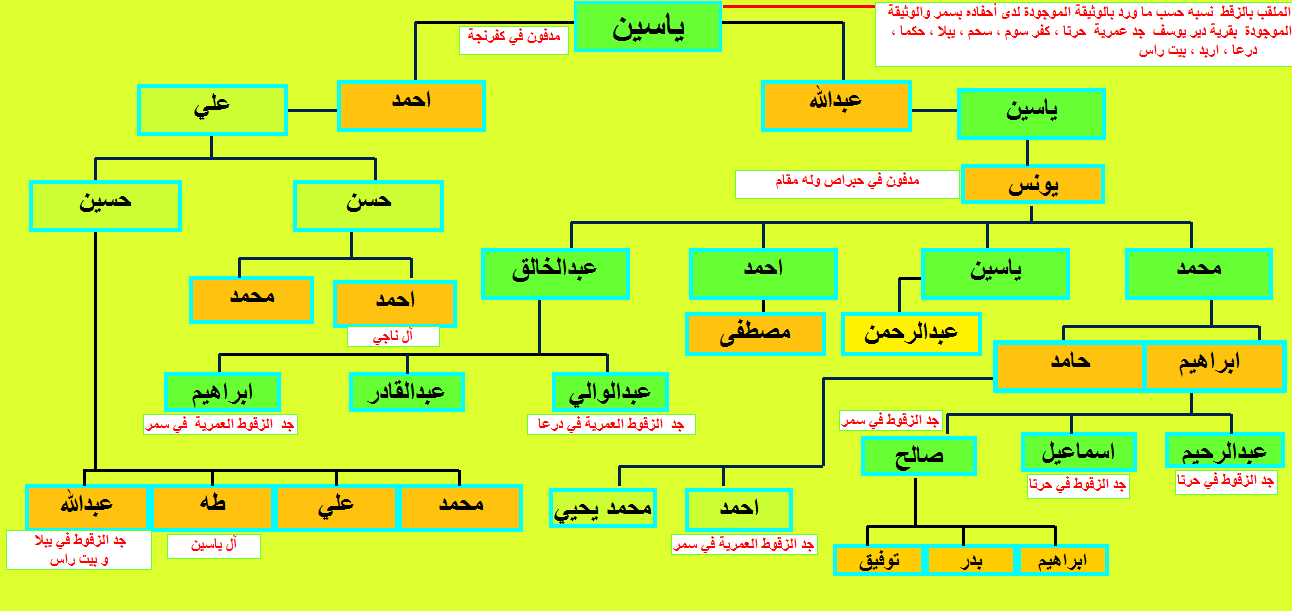
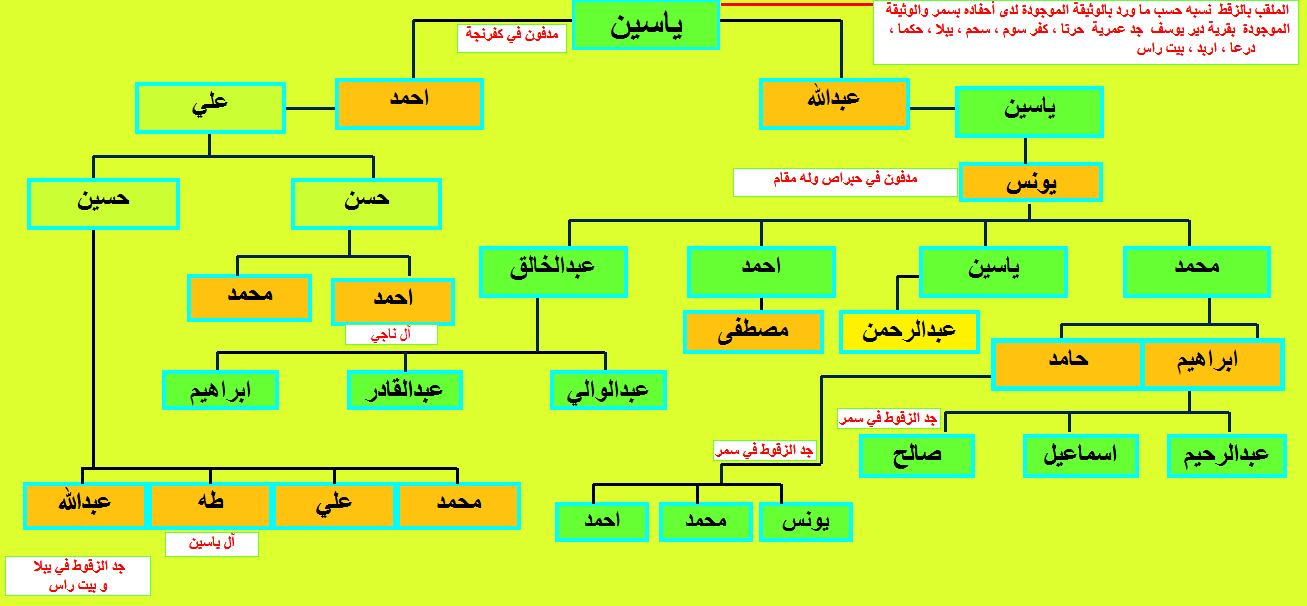
update

diff --git a/Yaseen-Zugut.html b/Yaseen-Zugut.html
@@ -4,17 +4,22 @@
 <head>
 <meta content="text/html; charset=utf-8" http-equiv="Content-Type" />
 <title>النسب العمري</title>
+<style type="text/css">
+.auto-style2 {
+	color: #FF0000;
+}
+</style>
 <script type="text/javascript">
 <!--
+function FP_preloadImgs() {//v1.0
+ var d=document,a=arguments; if(!d.FP_imgs) d.FP_imgs=new Array();
+ for(var i=0; i<a.length; i++) { d.FP_imgs[i]=new Image; d.FP_imgs[i].src=a[i]; }
+}
+
 function FP_swapImg() {//v1.0
  var doc=document,args=arguments,elm,n; doc.$imgSwaps=new Array(); for(n=2; n<args.length;
  n+=2) { elm=FP_getObjectByID(args[n]); if(elm) { doc.$imgSwaps[doc.$imgSwaps.length]=elm;
  elm.$src=elm.src; elm.src=args[n+1]; } }
-}
-
-function FP_preloadImgs() {//v1.0
- var d=document,a=arguments; if(!d.FP_imgs) d.FP_imgs=new Array();
- for(var i=0; i<a.length; i++) { d.FP_imgs[i]=new Image; d.FP_imgs[i].src=a[i]; }
 }
 
 function FP_getObjectByID(id,o) {//v1.0
@@ -28,37 +33,38 @@ function FP_getObjectByID(id,o) {//v1.0
 }
 // -->
 </script>
-<style type="text/css">
-.auto-style1 {
-	text-align: center;
-}
-.auto-style2 {
-	color: #FF0000;
-}
-</style>
 </head>
 
-<body style="background-color: #DEFF2F" onload="FP_preloadImgs(/*url*/'button1476.gif',/*url*/'button1477.gif',/*url*/'button1478.gif',/*url*/'button1479.gif',/*url*/'button1480.gif',/*url*/'buttonA73.gif',/*url*/'button1484.gif',/*url*/'button1485.gif',/*url*/'button1486.gif',/*url*/'button1487.gif',/*url*/'buttonF44.gif',/*url*/'button1488.gif')">
+<body style="background-color: #DEFF2F" onload="FP_preloadImgs(/*url*/'button1741.gif',/*url*/'button1742.gif',/*url*/'button1743.gif',/*url*/'button1744.gif',/*url*/'button1747.gif',/*url*/'button1748.gif',/*url*/'buttonD71.gif',/*url*/'buttonE60.gif',/*url*/'button1749.gif',/*url*/'button1750.gif',/*url*/'button1753.gif',/*url*/'button1754.gif',/*url*/'button1756.gif',/*url*/'button1757.gif',/*url*/'button1762.gif',/*url*/'button1763.gif',/*url*/'buttonC107.gif',/*url*/'buttonD72.gif')">
 
-<div id="layer1" style="position: absolute; width: 134px; height: 31px; z-index: 1; left: 356px; top: 428px" class="auto-style1">
+<div id="layer1" style="position: absolute; width: 131px; height: 34px; z-index: 1; left: 350px; top: 421px">
 	<a href="Zugut-Maru.html">
-	<img id="img1" alt="جد الزقوط في مرو" height="26" onmousedown="FP_swapImg(1,0,/*id*/'img1',/*url*/'button1477.gif')" onmouseout="FP_swapImg(0,0,/*id*/'img1',/*url*/'button1481.gif')" onmouseover="FP_swapImg(1,0,/*id*/'img1',/*url*/'button1476.gif')" onmouseup="FP_swapImg(0,0,/*id*/'img1',/*url*/'button1476.gif')" src="button1481.gif" style="border: 0" width="130" class="auto-style2" /><!-- MSComment="ibutton" fp-style="fp-btn: Metal Capsule 6; fp-font-style: Bold; fp-transparent: 1" fp-title="جد الزقوط في مرو" --></a></div>
-<div id="layer2" style="position: absolute; width: 106px; height: 27px; z-index: 2; left: 50px; top: 589px">
-	<a href="abdallah-husein-betras.html">
-	<img id="img2" alt="الاحفاد" height="20" onmousedown="FP_swapImg(1,0,/*id*/'img2',/*url*/'button1479.gif')" onmouseout="FP_swapImg(0,0,/*id*/'img2',/*url*/'button1482.gif')" onmouseover="FP_swapImg(1,0,/*id*/'img2',/*url*/'button1478.gif')" onmouseup="FP_swapImg(0,0,/*id*/'img2',/*url*/'button1478.gif')" src="button1482.gif" style="border: 0" width="100" /><!-- MSComment="ibutton" fp-style="fp-btn: Metal Capsule 6; fp-font-style: Bold; fp-transparent: 1" fp-title="الاحفاد" --></a></div>
-<div id="layer3" style="position: absolute; width: 100px; height: 23px; z-index: 3; left: 10px; top: 15px">
-	<a href="index.html">
-	<img id="img3" alt="الصفحة الرئيسية" height="20" onmousedown="FP_swapImg(1,0,/*id*/'img3',/*url*/'buttonA73.gif')" onmouseout="FP_swapImg(0,0,/*id*/'img3',/*url*/'button1483.gif')" onmouseover="FP_swapImg(1,0,/*id*/'img3',/*url*/'button1480.gif')" onmouseup="FP_swapImg(0,0,/*id*/'img3',/*url*/'button1480.gif')" src="button1483.gif" style="border: 0" width="100" /><!-- MSComment="ibutton" fp-style="fp-btn: Metal Capsule 3; fp-font-style: Bold; fp-transparent: 1" fp-title="الصفحة الرئيسية" --></a></div>
-<div id="layer4" style="position: absolute; width: 92px; height: 24px; z-index: 4; left: 567px; top: 449px">
+	<img id="img1" alt="جد الزقوط في مرو" height="26" onmousedown="FP_swapImg(1,0,/*id*/'img1',/*url*/'button1742.gif')" onmouseout="FP_swapImg(0,0,/*id*/'img1',/*url*/'button1745.gif')" onmouseover="FP_swapImg(1,0,/*id*/'img1',/*url*/'button1741.gif')" onmouseup="FP_swapImg(0,0,/*id*/'img1',/*url*/'button1741.gif')" src="button1745.gif" style="border: 0" width="130" class="auto-style2" /><!-- MSComment="ibutton" fp-style="fp-btn: Metal Capsule 6; fp-font-style: Bold; fp-transparent: 1" fp-title="جد الزقوط في مرو" --></a></div>
+<div id="layer2" style="position: absolute; width: 130px; height: 33px; z-index: 2; left: 550px; top: 423px">
 	<a href="zugut-dera1.html">
-	<img id="img4" alt="الاحفاد" height="18" onmousedown="FP_swapImg(1,0,/*id*/'img4',/*url*/'button1485.gif')" onmouseout="FP_swapImg(0,0,/*id*/'img4',/*url*/'button1489.gif')" onmouseover="FP_swapImg(1,0,/*id*/'img4',/*url*/'button1484.gif')" onmouseup="FP_swapImg(0,0,/*id*/'img4',/*url*/'button1484.gif')" src="button1489.gif" style="border: 0" width="90" /><!-- MSComment="ibutton" fp-style="fp-btn: Metal Capsule 6; fp-font-style: Bold; fp-transparent: 1" fp-title="الاحفاد" --></a></div>
-<div id="layer5" style="position: absolute; width: 95px; height: 18px; z-index: 5; left: 1051px; top: 510px">
+	<img id="img4" alt="جد الزقوط في درعا" height="26" onmousedown="FP_swapImg(1,0,/*id*/'img4',/*url*/'button1744.gif')" onmouseout="FP_swapImg(0,0,/*id*/'img4',/*url*/'button1746.gif')" onmouseover="FP_swapImg(1,0,/*id*/'img4',/*url*/'button1743.gif')" onmouseup="FP_swapImg(0,0,/*id*/'img4',/*url*/'button1743.gif')" src="button1746.gif" style="border: 0" width="131" /><!-- MSComment="ibutton" fp-style="fp-btn: Metal Capsule 6; fp-font-style: Bold; fp-transparent: 1" fp-title="جد الزقوط في درعا" --></a></div>
+<div id="layer3" style="position: absolute; width: 131px; height: 36px; z-index: 3; left: 1026px; top: 488px">
 	<a href="zugut-harta1.html">
-	<img id="img5" alt="الاحفاد" height="18" onmousedown="FP_swapImg(1,0,/*id*/'img5',/*url*/'button1487.gif')" onmouseout="FP_swapImg(0,0,/*id*/'img5',/*url*/'button1490.gif')" onmouseover="FP_swapImg(1,0,/*id*/'img5',/*url*/'button1486.gif')" onmouseup="FP_swapImg(0,0,/*id*/'img5',/*url*/'button1486.gif')" src="button1490.gif" style="border: 0" width="90" /><!-- MSComment="ibutton" fp-style="fp-btn: Metal Capsule 6; fp-font-style: Bold; fp-transparent: 1" fp-title="الاحفاد" --></a></div>
-<div id="layer6" style="position: absolute; width: 94px; height: 21px; z-index: 6; left: 1189px; top: 508px">
+	<img id="img5" alt="جد الزقوط في حرتا" height="26" onmousedown="FP_swapImg(1,0,/*id*/'img5',/*url*/'button1748.gif')" onmouseout="FP_swapImg(0,0,/*id*/'img5',/*url*/'button1751.gif')" onmouseover="FP_swapImg(1,0,/*id*/'img5',/*url*/'button1747.gif')" onmouseup="FP_swapImg(0,0,/*id*/'img5',/*url*/'button1747.gif')" src="button1751.gif" style="border: 0" width="130" /><!-- MSComment="ibutton" fp-style="fp-btn: Metal Capsule 6; fp-font-style: Bold; fp-transparent: 1" fp-title="جد الزقوط في حرتا" --></a></div>
+<div id="layer4" style="position: absolute; width: 129px; height: 41px; z-index: 4; left: 1175px; top: 486px">
 	<a href="zugut-harta5.html">
-	<img id="img6" alt="الاحفاد" height="18" onmousedown="FP_swapImg(1,0,/*id*/'img6',/*url*/'button1488.gif')" onmouseout="FP_swapImg(0,0,/*id*/'img6',/*url*/'buttonE44.gif')" onmouseover="FP_swapImg(1,0,/*id*/'img6',/*url*/'buttonF44.gif')" onmouseup="FP_swapImg(0,0,/*id*/'img6',/*url*/'buttonF44.gif')" src="buttonE44.gif" style="border: 0" width="90" /><!-- MSComment="ibutton" fp-style="fp-btn: Metal Capsule 6; fp-font-style: Bold; fp-transparent: 1" fp-title="الاحفاد" --></a></div>
-<img alt="" height="611" src="Yaseen-Zugut.png" width="1292" />
+	<img id="img6" alt="جد الزقوط في حرتا" height="26" onmousedown="FP_swapImg(1,0,/*id*/'img6',/*url*/'buttonE60.gif')" onmouseout="FP_swapImg(0,0,/*id*/'img6',/*url*/'buttonC106.gif')" onmouseover="FP_swapImg(1,0,/*id*/'img6',/*url*/'buttonD71.gif')" onmouseup="FP_swapImg(0,0,/*id*/'img6',/*url*/'buttonD71.gif')" src="buttonC106.gif" style="border: 0" width="130" /><!-- MSComment="ibutton" fp-style="fp-btn: Metal Capsule 6; fp-font-style: Bold; fp-transparent: 1" fp-title="جد الزقوط في حرتا" --></a></div>
+<div id="layer5" style="position: absolute; width: 99px; height: 31px; z-index: 5; left: 46px; top: 536px">
+	<a href="abdallah-husein-betras.html">
+	<img id="img2" alt="الاحفاد" height="20" onmousedown="FP_swapImg(1,0,/*id*/'img2',/*url*/'button1750.gif')" onmouseout="FP_swapImg(0,0,/*id*/'img2',/*url*/'button1752.gif')" onmouseover="FP_swapImg(1,0,/*id*/'img2',/*url*/'button1749.gif')" onmouseup="FP_swapImg(0,0,/*id*/'img2',/*url*/'button1749.gif')" src="button1752.gif" style="border: 0" width="100" /><!-- MSComment="ibutton" fp-style="fp-btn: Metal Capsule 6; fp-font-style: Bold; fp-transparent: 1" fp-title="الاحفاد" --></a></div>
+<div id="layer6" style="position: absolute; width: 134px; height: 32px; z-index: 6; left: 865px; top: 489px">
+	<a href="Saleh-ben-Ibrahemm.html">
+	<img id="img7" alt="جد الزقوط في سمر" height="27" onmousedown="FP_swapImg(1,0,/*id*/'img7',/*url*/'button1754.gif')" onmouseout="FP_swapImg(0,0,/*id*/'img7',/*url*/'button1755.gif')" onmouseover="FP_swapImg(1,0,/*id*/'img7',/*url*/'button1753.gif')" onmouseup="FP_swapImg(0,0,/*id*/'img7',/*url*/'button1753.gif')" src="button1755.gif" style="border: 0" width="135" /><!-- MSComment="ibutton" fp-style="fp-btn: Metal Capsule 6; fp-font-style: Bold; fp-transparent: 1" fp-title="جد الزقوط في سمر" --></a></div>
+<div id="layer7" style="position: absolute; width: 112px; height: 36px; z-index: 7; left: 10px; top: 15px">
+	<a href="index.html">
+	<img id="img3" alt="الصفحة الرئيسية" height="22" onmousedown="FP_swapImg(1,0,/*id*/'img3',/*url*/'button1757.gif')" onmouseout="FP_swapImg(0,0,/*id*/'img3',/*url*/'button1758.gif')" onmouseover="FP_swapImg(1,0,/*id*/'img3',/*url*/'button1756.gif')" onmouseup="FP_swapImg(0,0,/*id*/'img3',/*url*/'button1756.gif')" src="button1758.gif" style="border: 0" width="112" /><!-- MSComment="ibutton" fp-style="fp-btn: Metal Capsule 3; fp-font-style: Bold; fp-transparent: 1" fp-title="الصفحة الرئيسية" --></a><div id="layer8" style="position: absolute; width: 106px; height: 28px; z-index: 1; left: 655px; top: 543px">
+		<a href="Mohammed%20Hamed%20Mohammed.html">
+	<img id="img8" alt="جد الزقوط في سمر" height="22" onmousedown="FP_swapImg(1,0,/*id*/'img8',/*url*/'button1763.gif')" onmouseout="FP_swapImg(0,0,/*id*/'img8',/*url*/'button1764.gif')" onmouseover="FP_swapImg(1,0,/*id*/'img8',/*url*/'button1762.gif')" onmouseup="FP_swapImg(0,0,/*id*/'img8',/*url*/'button1762.gif')" src="button1764.gif" style="border: 0" width="110" /><!-- MSComment="ibutton" fp-style="fp-btn: Metal Capsule 6; fp-font-style: Bold; fp-font-size: 8; fp-transparent: 1" fp-title="جد الزقوط في سمر" --></a></div>
+	<div id="layer9" style="position: absolute; width: 109px; height: 29px; z-index: 2; left: 536px; top: 542px">
+		<a href="Ahamad%20Hamed%20Mohammed.html">
+	<img id="img9" alt="جد الزقوط في سمر" height="22" onmousedown="FP_swapImg(1,0,/*id*/'img9',/*url*/'buttonD72.gif')" onmouseout="FP_swapImg(0,0,/*id*/'img9',/*url*/'buttonB86.gif')" onmouseover="FP_swapImg(1,0,/*id*/'img9',/*url*/'buttonC107.gif')" onmouseup="FP_swapImg(0,0,/*id*/'img9',/*url*/'buttonC107.gif')" src="buttonB86.gif" style="border: 0" width="110" /><!-- MSComment="ibutton" fp-style="fp-btn: Metal Capsule 6; fp-font-style: Bold; fp-font-size: 8; fp-transparent: 1" fp-title="جد الزقوط في سمر" --></a></div>
+</div>
+<img alt="" height="606" src="Yaseen-Zugut.png" width="1307" />
 
 </body>
 

diff --git a/Mohammed Hamed Mohammed.html b/Mohammed Hamed Mohammed.html
@@ -1,0 +1,42 @@
+<!DOCTYPE html PUBLIC "-//W3C//DTD XHTML 1.0 Transitional//EN" "http://www.w3.org/TR/xhtml1/DTD/xhtml1-transitional.dtd">
+<html xmlns="http://www.w3.org/1999/xhtml">
+
+<head>
+<meta content="text/html; charset=utf-8" http-equiv="Content-Type" />
+<title>النسب العمري</title>
+<script type="text/javascript">
+<!--
+function FP_swapImg() {//v1.0
+ var doc=document,args=arguments,elm,n; doc.$imgSwaps=new Array(); for(n=2; n<args.length;
+ n+=2) { elm=FP_getObjectByID(args[n]); if(elm) { doc.$imgSwaps[doc.$imgSwaps.length]=elm;
+ elm.$src=elm.src; elm.src=args[n+1]; } }
+}
+
+function FP_preloadImgs() {//v1.0
+ var d=document,a=arguments; if(!d.FP_imgs) d.FP_imgs=new Array();
+ for(var i=0; i<a.length; i++) { d.FP_imgs[i]=new Image; d.FP_imgs[i].src=a[i]; }
+}
+
+function FP_getObjectByID(id,o) {//v1.0
+ var c,el,els,f,m,n; if(!o)o=document; if(o.getElementById) el=o.getElementById(id);
+ else if(o.layers) c=o.layers; else if(o.all) el=o.all[id]; if(el) return el;
+ if(o.id==id || o.name==id) return o; if(o.childNodes) c=o.childNodes; if(c)
+ for(n=0; n<c.length; n++) { el=FP_getObjectByID(id,c[n]); if(el) return el; }
+ f=o.forms; if(f) for(n=0; n<f.length; n++) { els=f[n].elements;
+ for(m=0; m<els.length; m++){ el=FP_getObjectByID(id,els[n]); if(el) return el; } }
+ return null;
+}
+// -->
+</script>
+</head>
+
+<body style="background-color: #DEFF2F" onload="FP_preloadImgs(/*url*/'button1768.gif',/*url*/'button1769.gif')">
+
+<div id="layer1" style="position: absolute; width: 116px; height: 32px; z-index: 1; left: 10px; top: 15px">
+	<a href="index.html">
+	<img id="img1" alt="الصفحة الرئيسية" height="23" onmousedown="FP_swapImg(1,0,/*id*/'img1',/*url*/'button1769.gif')" onmouseout="FP_swapImg(0,0,/*id*/'img1',/*url*/'button1770.gif')" onmouseover="FP_swapImg(1,0,/*id*/'img1',/*url*/'button1768.gif')" onmouseup="FP_swapImg(0,0,/*id*/'img1',/*url*/'button1768.gif')" src="button1770.gif" style="border: 0" width="113" /><!-- MSComment="ibutton" fp-style="fp-btn: Metal Capsule 3; fp-font-style: Bold; fp-transparent: 1" fp-title="الصفحة الرئيسية" --></a></div>
+<img alt="" height="603" src="Mohammed%20Hamed%20Mohammed.png" width="1283" />
+
+</body>
+
+</html>

diff --git a/Ahamad Hamed Mohammed.html b/Ahamad Hamed Mohammed.html
@@ -1,0 +1,42 @@
+<!DOCTYPE html PUBLIC "-//W3C//DTD XHTML 1.0 Transitional//EN" "http://www.w3.org/TR/xhtml1/DTD/xhtml1-transitional.dtd">
+<html xmlns="http://www.w3.org/1999/xhtml">
+
+<head>
+<meta content="text/html; charset=utf-8" http-equiv="Content-Type" />
+<title>النسب العمري</title>
+<script type="text/javascript">
+<!--
+function FP_swapImg() {//v1.0
+ var doc=document,args=arguments,elm,n; doc.$imgSwaps=new Array(); for(n=2; n<args.length;
+ n+=2) { elm=FP_getObjectByID(args[n]); if(elm) { doc.$imgSwaps[doc.$imgSwaps.length]=elm;
+ elm.$src=elm.src; elm.src=args[n+1]; } }
+}
+
+function FP_preloadImgs() {//v1.0
+ var d=document,a=arguments; if(!d.FP_imgs) d.FP_imgs=new Array();
+ for(var i=0; i<a.length; i++) { d.FP_imgs[i]=new Image; d.FP_imgs[i].src=a[i]; }
+}
+
+function FP_getObjectByID(id,o) {//v1.0
+ var c,el,els,f,m,n; if(!o)o=document; if(o.getElementById) el=o.getElementById(id);
+ else if(o.layers) c=o.layers; else if(o.all) el=o.all[id]; if(el) return el;
+ if(o.id==id || o.name==id) return o; if(o.childNodes) c=o.childNodes; if(c)
+ for(n=0; n<c.length; n++) { el=FP_getObjectByID(id,c[n]); if(el) return el; }
+ f=o.forms; if(f) for(n=0; n<f.length; n++) { els=f[n].elements;
+ for(m=0; m<els.length; m++){ el=FP_getObjectByID(id,els[n]); if(el) return el; } }
+ return null;
+}
+// -->
+</script>
+</head>
+
+<body style="background-color: #DEFF2F" onload="FP_preloadImgs(/*url*/'button1765.gif',/*url*/'button1766.gif')">
+
+<div id="layer1" style="position: absolute; width: 110px; height: 37px; z-index: 1; left: 10px; top: 15px">
+	<a href="index.html">
+	<img id="img1" alt="الصفحة الرئيسية" height="22" onmousedown="FP_swapImg(1,0,/*id*/'img1',/*url*/'button1766.gif')" onmouseout="FP_swapImg(0,0,/*id*/'img1',/*url*/'button1767.gif')" onmouseover="FP_swapImg(1,0,/*id*/'img1',/*url*/'button1765.gif')" onmouseup="FP_swapImg(0,0,/*id*/'img1',/*url*/'button1765.gif')" src="button1767.gif" style="border: 0" width="112" /><!-- MSComment="ibutton" fp-style="fp-btn: Metal Capsule 3; fp-font-style: Bold; fp-transparent: 1" fp-title="الصفحة الرئيسية" --></a></div>
+<img alt="" height="603" src="Ahmad%20Hamed%20Mohammed.png" width="1283" />
+
+</body>
+
+</html>

diff --git a/Saleh-ben-Ibrahemm.html b/Saleh-ben-Ibrahemm.html
@@ -1,0 +1,42 @@
+<!DOCTYPE html PUBLIC "-//W3C//DTD XHTML 1.0 Transitional//EN" "http://www.w3.org/TR/xhtml1/DTD/xhtml1-transitional.dtd">
+<html xmlns="http://www.w3.org/1999/xhtml">
+
+<head>
+<meta content="text/html; charset=utf-8" http-equiv="Content-Type" />
+<title>النسب العمري</title>
+<script type="text/javascript">
+<!--
+function FP_preloadImgs() {//v1.0
+ var d=document,a=arguments; if(!d.FP_imgs) d.FP_imgs=new Array();
+ for(var i=0; i<a.length; i++) { d.FP_imgs[i]=new Image; d.FP_imgs[i].src=a[i]; }
+}
+
+function FP_swapImg() {//v1.0
+ var doc=document,args=arguments,elm,n; doc.$imgSwaps=new Array(); for(n=2; n<args.length;
+ n+=2) { elm=FP_getObjectByID(args[n]); if(elm) { doc.$imgSwaps[doc.$imgSwaps.length]=elm;
+ elm.$src=elm.src; elm.src=args[n+1]; } }
+}
+
+function FP_getObjectByID(id,o) {//v1.0
+ var c,el,els,f,m,n; if(!o)o=document; if(o.getElementById) el=o.getElementById(id);
+ else if(o.layers) c=o.layers; else if(o.all) el=o.all[id]; if(el) return el;
+ if(o.id==id || o.name==id) return o; if(o.childNodes) c=o.childNodes; if(c)
+ for(n=0; n<c.length; n++) { el=FP_getObjectByID(id,c[n]); if(el) return el; }
+ f=o.forms; if(f) for(n=0; n<f.length; n++) { els=f[n].elements;
+ for(m=0; m<els.length; m++){ el=FP_getObjectByID(id,els[n]); if(el) return el; } }
+ return null;
+}
+// -->
+</script>
+</head>
+
+<body style="background-color: #DEFF2F" onload="FP_preloadImgs(/*url*/'button1759.gif',/*url*/'button1760.gif')">
+
+<div id="layer1" style="position: absolute; width: 111px; height: 37px; z-index: 1; left: 10px; top: 15px">
+	<a href="index.html">
+	<img id="img3" alt="الصفحة الرئيسية" height="22" onmousedown="FP_swapImg(1,0,/*id*/'img3',/*url*/'button1760.gif')" onmouseout="FP_swapImg(0,0,/*id*/'img3',/*url*/'button1761.gif')" onmouseover="FP_swapImg(1,0,/*id*/'img3',/*url*/'button1759.gif')" onmouseup="FP_swapImg(0,0,/*id*/'img3',/*url*/'button1759.gif')" src="button1761.gif" style="border: 0" width="112" /><!-- MSComment="ibutton" fp-style="fp-btn: Metal Capsule 3; fp-font-style: Bold; fp-transparent: 1" fp-title="الصفحة الرئيسية" --></a></div>
+<img alt="" height="603" src="Saleh-ben-Ibraheem.png" width="1283" />
+
+</body>
+
+</html>
